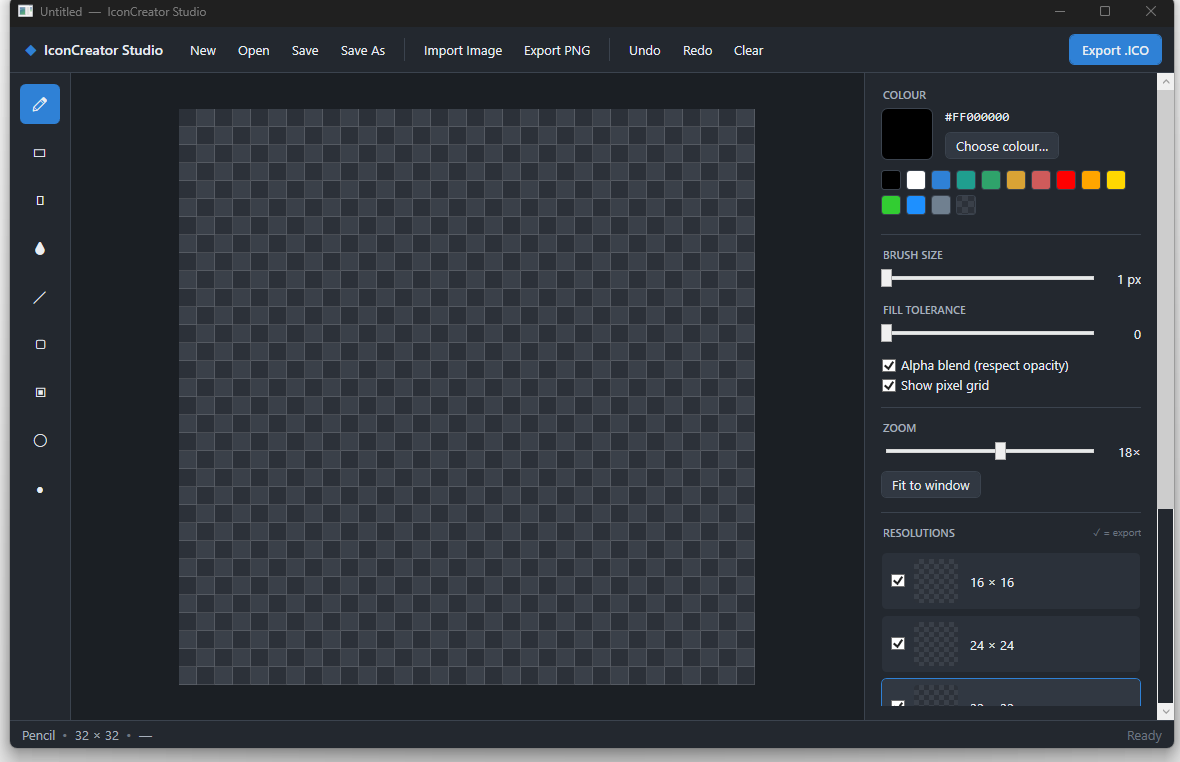
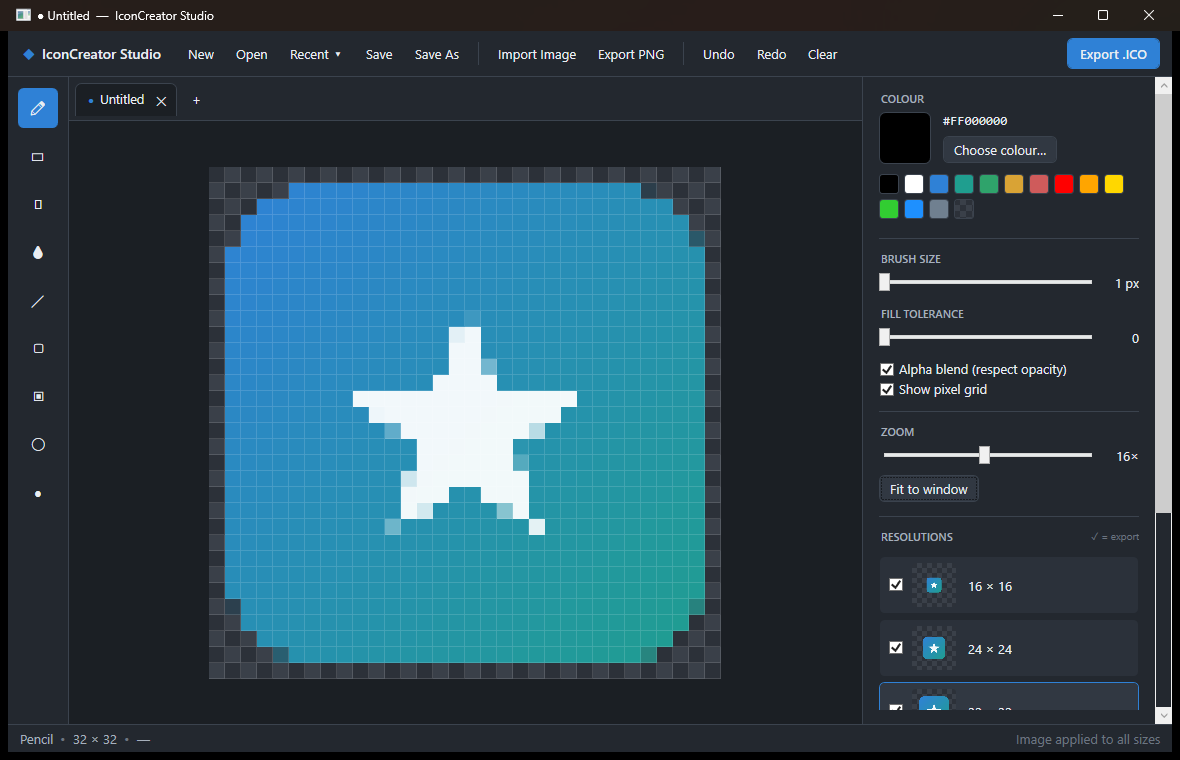
Ctrl+drop opens files as tabs; refresh README screenshot
Drag & drop now supports two modes: a plain drop places the image as a layer
(unchanged), while holding Ctrl opens the dropped file(s) as new document
tabs. The drop hint reflects the active mode. Updated the README hero image to
show tabs and a populated multi-resolution icon.

diff --git a/src/IconCreator/MainWindow.xaml.cs b/src/IconCreator/MainWindow.xaml.cs
@@ -841,8 +841,13 @@ public partial class MainWindow : Window
 
     private void OnFileDragOver(object sender, DragEventArgs e)
     {
-        e.Effects = e.Data.GetDataPresent(DataFormats.FileDrop)
-            ? DragDropEffects.Copy : DragDropEffects.None;
+        bool ok = e.Data.GetDataPresent(DataFormats.FileDrop);
+        bool open = (e.KeyStates & DragDropKeyStates.ControlKey) != 0;
+        e.Effects = ok ? DragDropEffects.Copy : DragDropEffects.None;
+        if (ok)
+            StatusHint.Text = open
+                ? "Drop to open as a new tab"
+                : "Drop to place image  (hold Ctrl to open as a new tab)";
         e.Handled = true;
     }
 
@@ -852,7 +857,12 @@ public partial class MainWindow : Window
         if (e.Data.GetData(DataFormats.FileDrop) is not string[] files || files.Length == 0) return;
         e.Handled = true;
         Activate();
-        ImportFromFile(files[0]);
+
+        // Ctrl = open each file as its own document; otherwise place the first as a layer.
+        if ((e.KeyStates & DragDropKeyStates.ControlKey) != 0)
+            foreach (var f in files) OpenPath(f);
+        else
+            ImportFromFile(files[0]);
     }
 
     // ============================ Import placement layer ============================

diff --git a/README.md b/README.md
@@ -21,7 +21,7 @@ A professional multi-resolution icon editor for Windows — a modern, cleaner al
 - **Multi-document tabs (MDI)** — open many icons at once, each in its own tab with its own undo history. `+` for a new document, `Ctrl+Tab` to cycle, `Ctrl+W` to close, middle-click a tab to close it; unsaved tabs show a ● and prompt before closing.
 - **Multi-resolution documents** — edit 16, 24, 32, 48, 64, 128 and 256 px slices side by side; tick which ones ship in the exported `.ico`.
 - **Full drawing toolset** — pencil, eraser, flood fill (with tolerance), colour picker, line, rectangle / filled rectangle, ellipse / filled ellipse, adjustable brush size.
-- **Import as a movable layer** — **drag & drop** an image onto the window (or use **Import Image**) and it arrives as a floating placement you can **drag, resize (corner handles — hold `Shift` to keep proportions), Fit, Center or Reset** before committing. **Apply** bakes it into the current size, or tick **All sizes** to composite it into every resolution at once.
+- **Import as a movable layer** — **drag & drop** an image onto the window (or use **Import Image**) and it arrives as a floating placement you can **drag, resize (corner handles — hold `Shift` to keep proportions), Fit, Center or Reset** before committing. **Apply** bakes it into the current size, or tick **All sizes** to composite it into every resolution at once. Hold **`Ctrl` while dropping** to open the file(s) as new tabs instead of importing.
 - **Real alpha** — every pixel is straight-alpha BGRA; optional alpha-blend mode composites brush strokes over existing pixels.
 - **Colour picker** — RGBA sliders, hex entry, preset swatches, and a transparency-aware preview.
 - **Import** — bring in any PNG/JPG/BMP/GIF/ICO (via **Import Image** or **drag & drop**) as a floating layer, position it, then apply to the current size or all sizes.